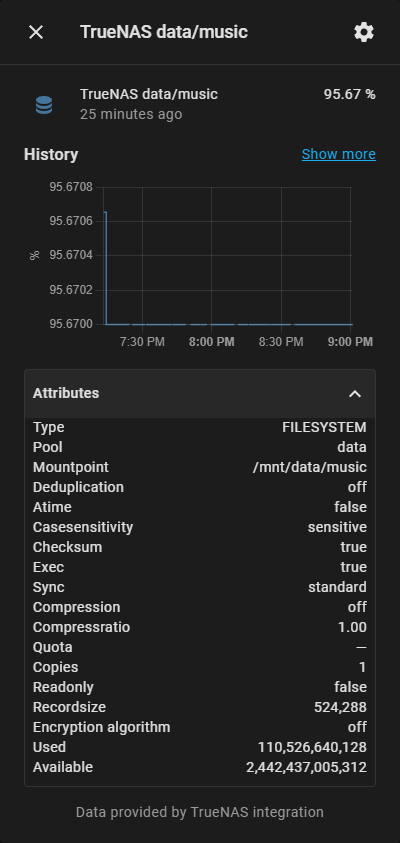
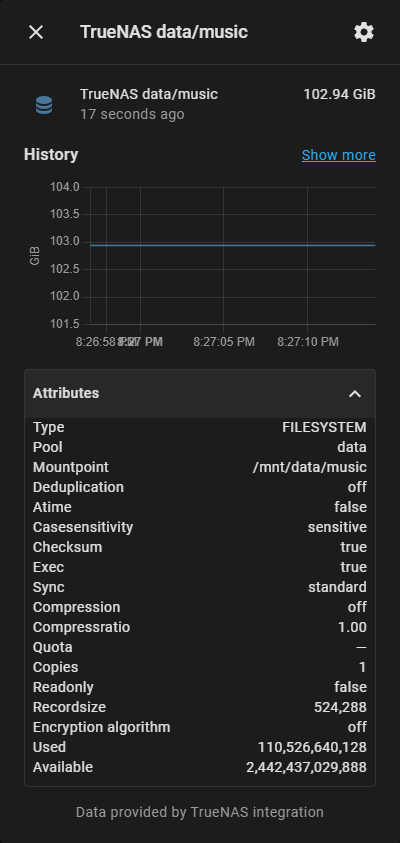
changed dataset sensor to GiB usage

diff --git a/custom_components/truenas/sensor_types.py b/custom_components/truenas/sensor_types.py
@@ -7,7 +7,7 @@ from homeassistant.components.sensor import (
     SensorStateClass,
     SensorEntityDescription,
 )
-from homeassistant.const import PERCENTAGE, TEMP_CELSIUS, DATA_GIGABYTES
+from homeassistant.const import PERCENTAGE, TEMP_CELSIUS, DATA_GIBIBYTES
 
 DEVICE_ATTRIBUTES_DATASET = [
     "type",
@@ -175,7 +175,7 @@ SENSOR_TYPES = {
         key="system_cache_size-arc_value",
         name="ARC Size",
         icon="mdi:memory",
-        native_unit_of_measurement=DATA_GIGABYTES,
+        native_unit_of_measurement=DATA_GIBIBYTES,
         device_class=None,
         state_class=SensorStateClass.MEASUREMENT,
         entity_category=EntityCategory.DIAGNOSTIC,
@@ -190,7 +190,7 @@ SENSOR_TYPES = {
         key="system_cache_size-L2_value",
         name="L2ARC Size",
         icon="mdi:memory",
-        native_unit_of_measurement=DATA_GIGABYTES,
+        native_unit_of_measurement=DATA_GIBIBYTES,
         device_class=None,
         state_class=SensorStateClass.MEASUREMENT,
         entity_category=EntityCategory.DIAGNOSTIC,
@@ -235,13 +235,13 @@ SENSOR_TYPES = {
         key="dataset",
         name="",
         icon="mdi:database",
-        native_unit_of_measurement=PERCENTAGE,
+        native_unit_of_measurement=DATA_GIBIBYTES,
         device_class=None,
         state_class=SensorStateClass.MEASUREMENT,
         entity_category=None,
         ha_group="Datasets",
         data_path="dataset",
-        data_attribute="usage",
+        data_attribute="used_gb",
         data_name="name",
         data_uid="",
         data_reference="id",

diff --git a/custom_components/truenas/truenas_controller.py b/custom_components/truenas/truenas_controller.py
@@ -354,14 +354,14 @@ class TrueNASControllerData(object):
                 {"name": "available", "default": 0},
             ],
             ensure_vals=[
-                {"name": "usage", "default": 0},
+                {"name": "used_gb", "default": 0},
             ],
         )
 
         for uid in self.data["dataset"]:
-            used = self.data["dataset"][uid]["used"]
-            total = self.data["dataset"][uid]["available"] + used
-            self.data["dataset"][uid]["usage"] = round((total - used) / total * 100, 2)
+            self.data["dataset"][uid]["used_gb"] = round(
+                self.data["dataset"][uid]["used"] / 1073741824, 2
+            )
 
     # ---------------------------
     #   get_disk
